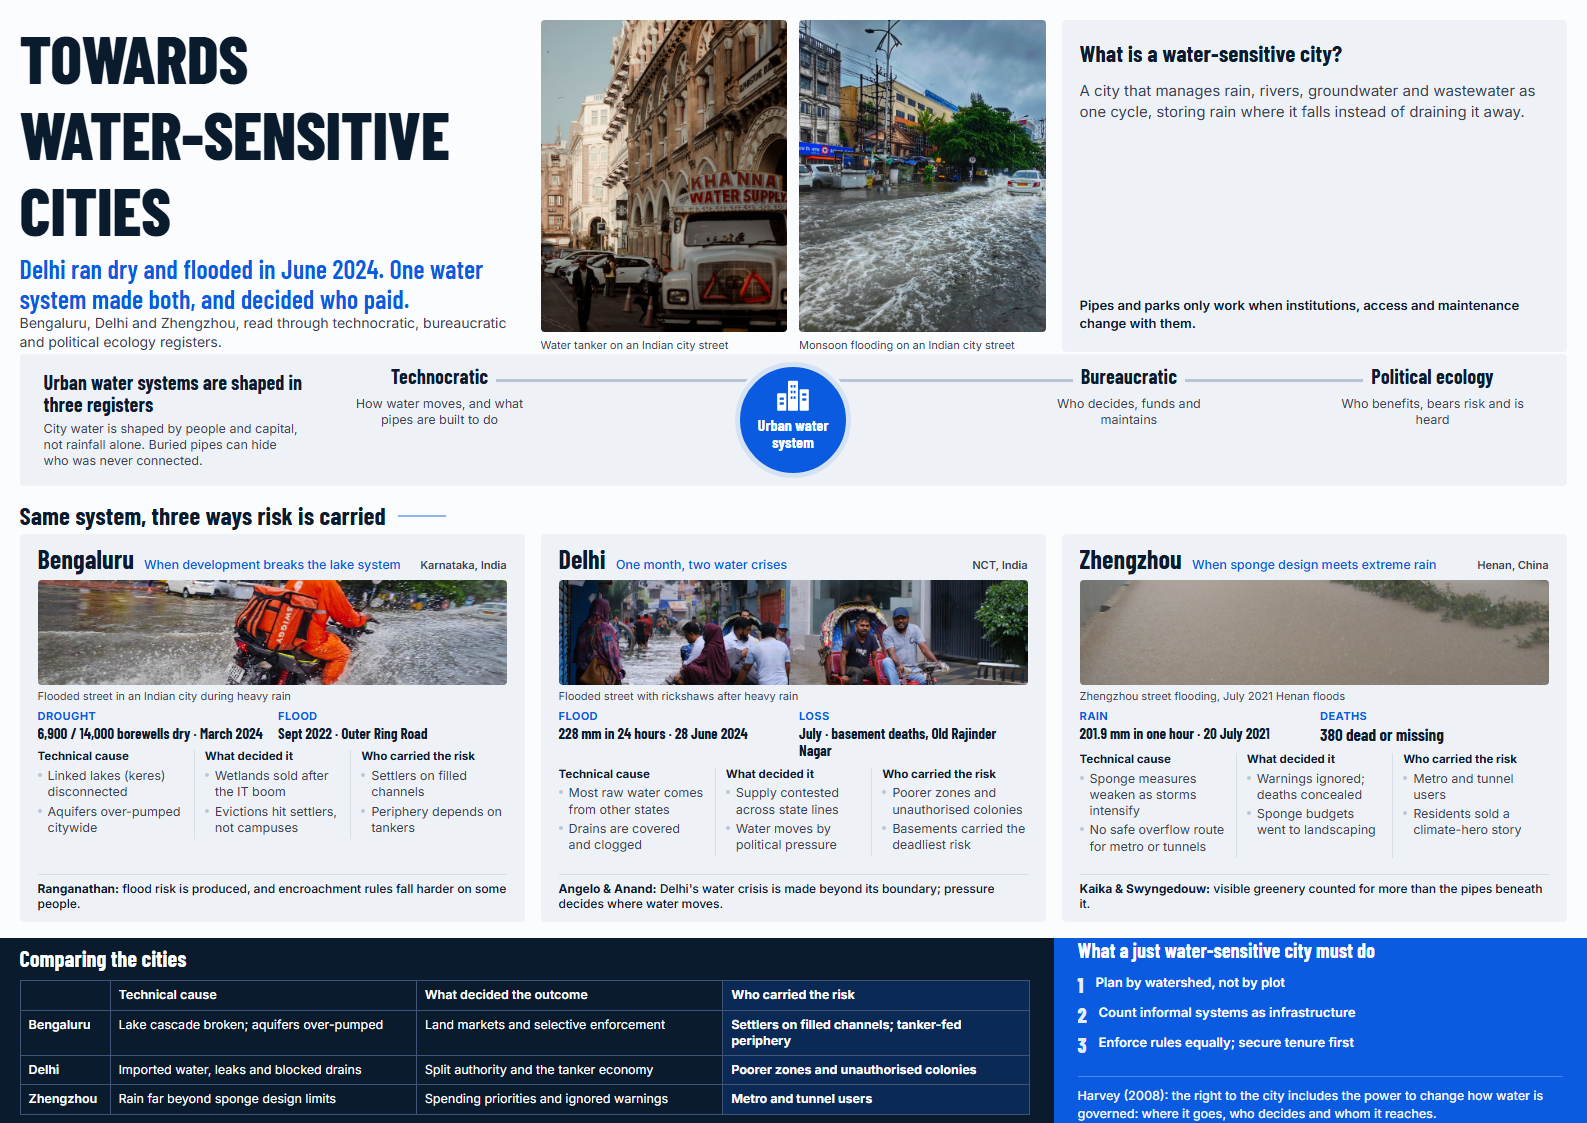
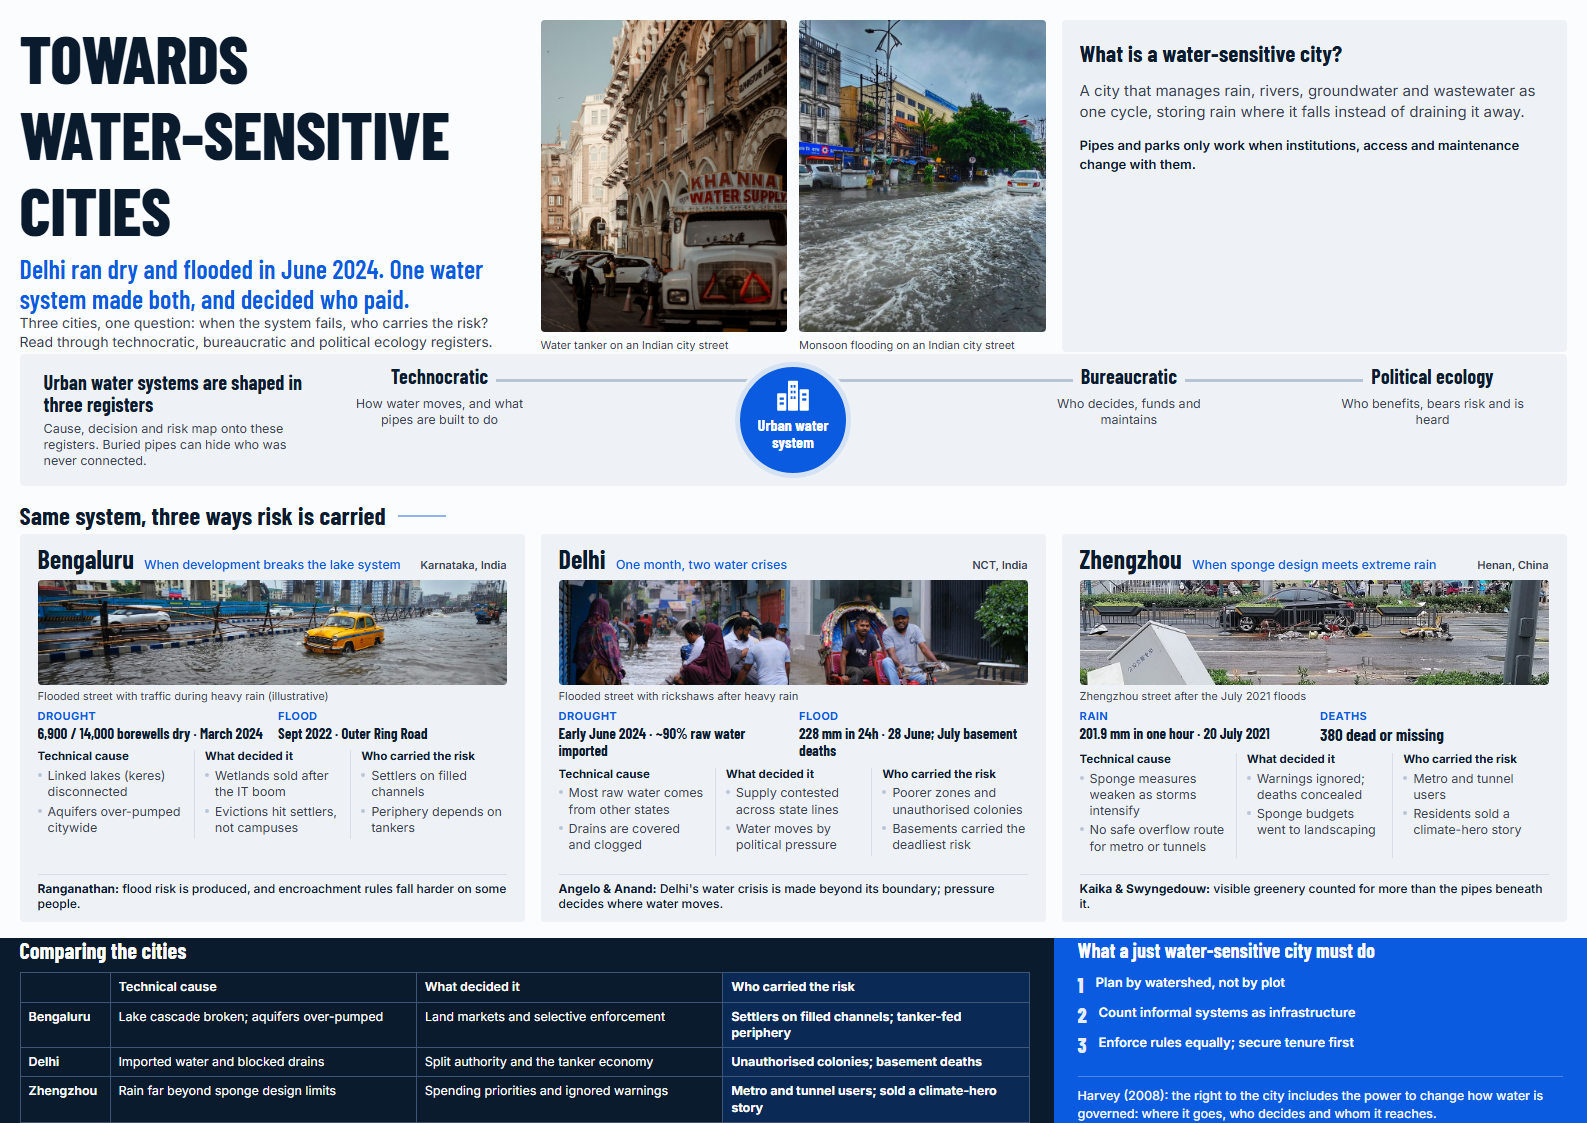
chore(poster): final preview and Grok critique pass
Address the top three Grok findings: Delhi drought KPI, honest photo
swap/recaption, and tighter definition/footer alignment.

diff --git a/Water-Sensitive-Cities-Poster-v7.html b/Water-Sensitive-Cities-Poster-v7.html
@@ -43,7 +43,7 @@ h1,h2,h3,.disp{font-family:var(--disp);font-weight:700;letter-spacing:.005em}
 .wsc{left:var(--col3);top:20px;width:var(--colw);height:332px;background:var(--panel);border-radius:var(--radius);padding:20px var(--ph);display:flex;flex-direction:column}
 .wsc h2{font-size:23px;line-height:1.15;color:var(--navy)}
 .wsc .def{margin-top:14px;font-size:15px;line-height:1.4;color:var(--ink2)}
-.wsc .arg{margin-top:auto;font-size:13px;line-height:1.4;font-weight:600;color:var(--navy)}
+.wsc .arg{margin-top:14px;font-size:13px;line-height:1.4;font-weight:600;color:var(--navy)}
 
 /* ---------- row 2: registers + hub ---------- */
 .forces{left:var(--m);top:354px;width:1547px;height:132px;background:var(--panel);border-radius:var(--radius);padding:10px 24px;display:grid;grid-template-columns:260px 1fr;column-gap:16px;align-items:center;overflow:hidden}
@@ -123,7 +123,7 @@ body.export .hint{display:none}
 <div class="abs tb">
   <h1 class="title"><span class="ln" data-fit="title">Towards</span><span class="ln" data-fit="title">Water-Sensitive</span><span class="ln" data-fit="title">Cities</span></h1>
   <p class="thesis">Delhi ran dry and flooded in June 2024. One water system made both, and decided who paid.</p>
-  <p class="intro">Bengaluru, Delhi and Zhengzhou, read through technocratic, bureaucratic and political ecology registers.</p>
+  <p class="intro">Three cities, one question: when the system fails, who carries the risk? Read through technocratic, bureaucratic and political ecology registers.</p>
 </div>
 
 <div class="abs hero">
@@ -146,7 +146,7 @@ body.export .hint{display:none}
 <div class="abs forces">
   <div class="forces-copy">
     <h2 data-fit>Urban water systems are shaped in three registers</h2>
-    <p class="lead">City water is shaped by people and capital, not rainfall alone. Buried pipes can hide who was never connected.</p>
+    <p class="lead">Cause, decision and risk map onto these registers. Buried pipes can hide who was never connected.</p>
   </div>
   <div class="fzrow">
     <div class="rail" aria-hidden="true"></div>
@@ -178,8 +178,8 @@ body.export .hint{display:none}
     <span class="region">Karnataka, India</span>
   </div>
   <div class="ph">
-    <div class="frame"><img src="poster-assets/pexels_scooter_rain.jpg" alt="Person navigating a flooded Indian city street in heavy rain"></div>
-    <p class="cap">Flooded street in an Indian city during heavy rain</p>
+    <div class="frame"><img src="poster-assets/pexels_kolkata_taxi.jpg" alt="Yellow taxi driving through a flooded Indian city street"></div>
+    <p class="cap">Flooded street with traffic during heavy rain (illustrative)</p>
   </div>
   <div class="kpis">
     <div class="kpi"><div class="kl">Drought</div><div class="kv">6,900 / 14,000 borewells dry · March 2024</div></div>
@@ -213,8 +213,8 @@ body.export .hint{display:none}
     <p class="cap">Flooded street with rickshaws after heavy rain</p>
   </div>
   <div class="kpis">
-    <div class="kpi"><div class="kl">Flood</div><div class="kv">228 mm in 24 hours · 28 June 2024</div></div>
-    <div class="kpi"><div class="kl">Loss</div><div class="kv">July · basement deaths, Old Rajinder Nagar</div></div>
+    <div class="kpi"><div class="kl">Drought</div><div class="kv">Early June 2024 · ~90% raw water imported</div></div>
+    <div class="kpi"><div class="kl">Flood</div><div class="kv">228 mm in 24h · 28 June; July basement deaths</div></div>
   </div>
   <div class="cols">
     <div><h4>Technical cause</h4><ul>
@@ -240,8 +240,8 @@ body.export .hint{display:none}
     <span class="region">Henan, China</span>
   </div>
   <div class="ph">
-    <div class="frame"><img src="poster-assets/zhengzhou_flood2.jpg" alt="Flooded street scene in Zhengzhou during the July 2021 Henan floods"></div>
-    <p class="cap">Zhengzhou street flooding, July 2021 Henan floods</p>
+    <div class="frame"><img src="poster-assets/zhengzhou_street.jpg" alt="Damaged utility boxes and debris on a Zhengzhou street after the July 2021 floods"></div>
+    <p class="cap">Zhengzhou street after the July 2021 floods</p>
   </div>
   <div class="kpis">
     <div class="kpi"><div class="kl">Rain</div><div class="kv">201.9 mm in one hour · 20 July 2021</div></div>
@@ -267,10 +267,10 @@ body.export .hint{display:none}
 <div class="abs band cmp">
   <h2>Comparing the cities</h2>
   <table>
-    <tr><th></th><th>Technical cause</th><th>What decided the outcome</th><th class="risk">Who carried the risk</th></tr>
+    <tr><th></th><th>Technical cause</th><th>What decided it</th><th class="risk">Who carried the risk</th></tr>
     <tr><td>Bengaluru</td><td>Lake cascade broken; aquifers over-pumped</td><td>Land markets and selective enforcement</td><td class="risk">Settlers on filled channels; tanker-fed periphery</td></tr>
-    <tr><td>Delhi</td><td>Imported water, leaks and blocked drains</td><td>Split authority and the tanker economy</td><td class="risk">Poorer zones and unauthorised colonies</td></tr>
-    <tr><td>Zhengzhou</td><td>Rain far beyond sponge design limits</td><td>Spending priorities and ignored warnings</td><td class="risk">Metro and tunnel users</td></tr>
+    <tr><td>Delhi</td><td>Imported water and blocked drains</td><td>Split authority and the tanker economy</td><td class="risk">Unauthorised colonies; basement deaths</td></tr>
+    <tr><td>Zhengzhou</td><td>Rain far beyond sponge design limits</td><td>Spending priorities and ignored warnings</td><td class="risk">Metro and tunnel users; sold a climate-hero story</td></tr>
   </table>
 </div>
 <div class="abs band commit">

diff --git a/README.md b/README.md
@@ -35,8 +35,8 @@ Captions on the poster name what each image shows. Place-matched Wikimedia repla
 | --- | --- | --- |
 | `pexels_water_truck_mumbai.jpg` | Hero left | Water tanker on an Indian city street (Pexels) |
 | `pexels_kolkata_flood.jpg` | Hero right | Monsoon flooding on an Indian city street (Pexels) |
-| `pexels_scooter_rain.jpg` | Bengaluru case | Flooded street in heavy rain (Pexels; illustrative, not Bengaluru-labelled) |
+| `pexels_kolkata_taxi.jpg` | Bengaluru case | Flooded street with traffic (Pexels; illustrative, not Bengaluru-labelled) |
 | `pexels_flood_rickshaw.jpg` | Delhi case | Flooded street with rickshaws (Pexels; illustrative) |
-| `zhengzhou_flood2.jpg` | Zhengzhou case | Zhengzhou street flooding, July 2021 Henan floods |
+| `zhengzhou_street.jpg` | Zhengzhou case | Zhengzhou street after the July 2021 floods |
 
 Do not treat this repo as a rights-cleared media pack for commercial reuse without checking each file’s source.
